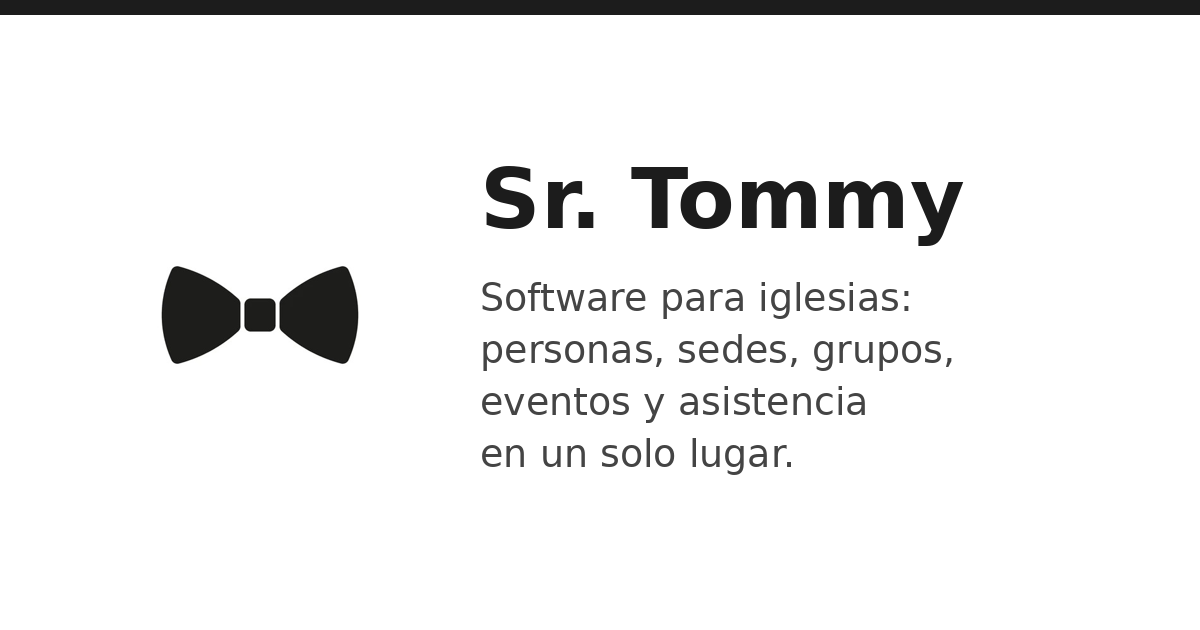
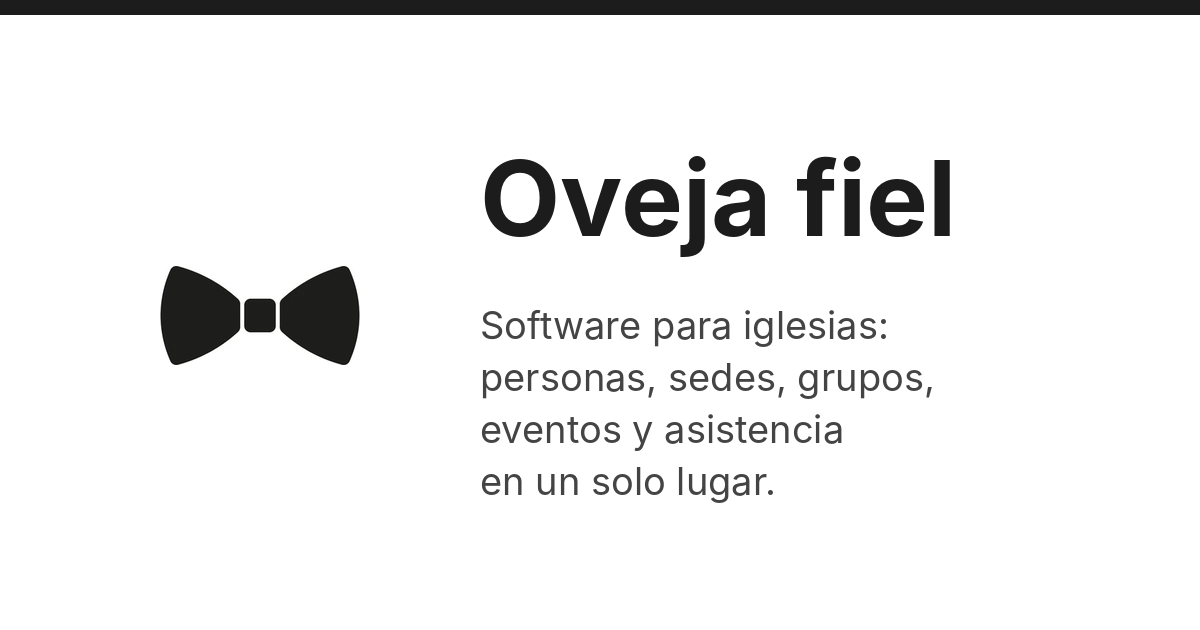
feat: rename the brand to oveja fiel and recreate the og image
Claude-Session: https://claude.ai/code/session_01TT9eNUXQCXBA5YeMA7rQi3

Changed region(s): [[0.4008, 0.4524, 0.8017, 0.8143], [0.4008, 0.2413, 0.8017, 0.4222]]

diff --git a/app/site.ts b/app/site.ts
@@ -3,16 +3,16 @@ export const siteUrl = (
   process.env.NEXT_PUBLIC_SITE_URL ?? "https://srtommy-ui-test.vercel.app"
 ).replace(/\/$/, "");
 
-export const siteName = "Sr. Tommy";
+export const siteName = "Oveja fiel";
 
 // Brand blue (see buttonStyles.ts); tints the browser UI and the installed app.
 export const themeColor = "#2563EB";
 
 export const siteTitle =
-  "Sr. Tommy | Software para iglesias y toma de asistencia";
+  "Oveja fiel | Software para iglesias y toma de asistencia";
 
 export const siteDescription =
-  "Administra tu iglesia en un solo lugar: registro de personas, sedes, grupos y ministerios, eventos y cursos con asistencia en minutos desde el celular. Prueba Sr. Tommy.";
+  "Administra tu iglesia en un solo lugar: registro de personas, sedes, grupos y ministerios, eventos y cursos con asistencia en minutos desde el celular. Prueba Oveja fiel.";
 
 export const siteKeywords = [
   "software para iglesias",

diff --git a/app/portal/page.tsx b/app/portal/page.tsx
@@ -99,7 +99,7 @@ export default function PortalHome() {
         />
         <Typography gutterBottom>
           Registre su iglesia y su primera sede para empezar. Si su iglesia ya
-          usa Sr. Tommy, pida a su pastor o líder que lo invite.
+          usa Oveja fiel, pida a su pastor o líder que lo invite.
         </Typography>
         <CreateChurchForm
           submit={createChurch}

diff --git a/app/portal/MenuDrawer.tsx b/app/portal/MenuDrawer.tsx
@@ -161,7 +161,7 @@ export default function MenuDrawer({
               <p
                 style={{ fontSize: "10px", paddingLeft: "30px", color: "#fff" }}
               >
-                &copy;Sr Tommy all right reserved
+                &copy;Oveja fiel all right reserved
               </p>
             </div>
           </Box>

diff --git a/app/landing-layout.tsx b/app/landing-layout.tsx
@@ -16,7 +16,7 @@ export default function LandingLayout({
         justifyContent: "space-between",
       }}
     >
-      <Header src={bowTie} alt="Company Logo"></Header>
+      <Header src={bowTie} alt="Logo de Oveja fiel"></Header>
       <main>{children}</main>
       <Footer
         socialLinks={[

diff --git a/app/footer/SocialButtons.tsx b/app/footer/SocialButtons.tsx
@@ -7,7 +7,7 @@ interface SocialButtonsProps {
 }
 
 const WHATSAPP_NUMBER = "941475889";
-const WHATSAPP_MESSAGE = "Hola estoy interesado en Sr.Tommy";
+const WHATSAPP_MESSAGE = "Hola estoy interesado en Oveja fiel";
 
 const whatsappURL = `https://wa.me/${WHATSAPP_NUMBER}?text=${WHATSAPP_MESSAGE}`;
 

diff --git a/tests/pwa.spec.ts b/tests/pwa.spec.ts
@@ -7,7 +7,7 @@ test.describe("PWA", () => {
     expect(response.status()).toBe(200);
     const manifest = await response.json();
     expect(manifest).toMatchObject({
-      name: "Sr. Tommy",
+      name: "Oveja fiel",
       display: "standalone",
       start_url: "/portal",
     });
